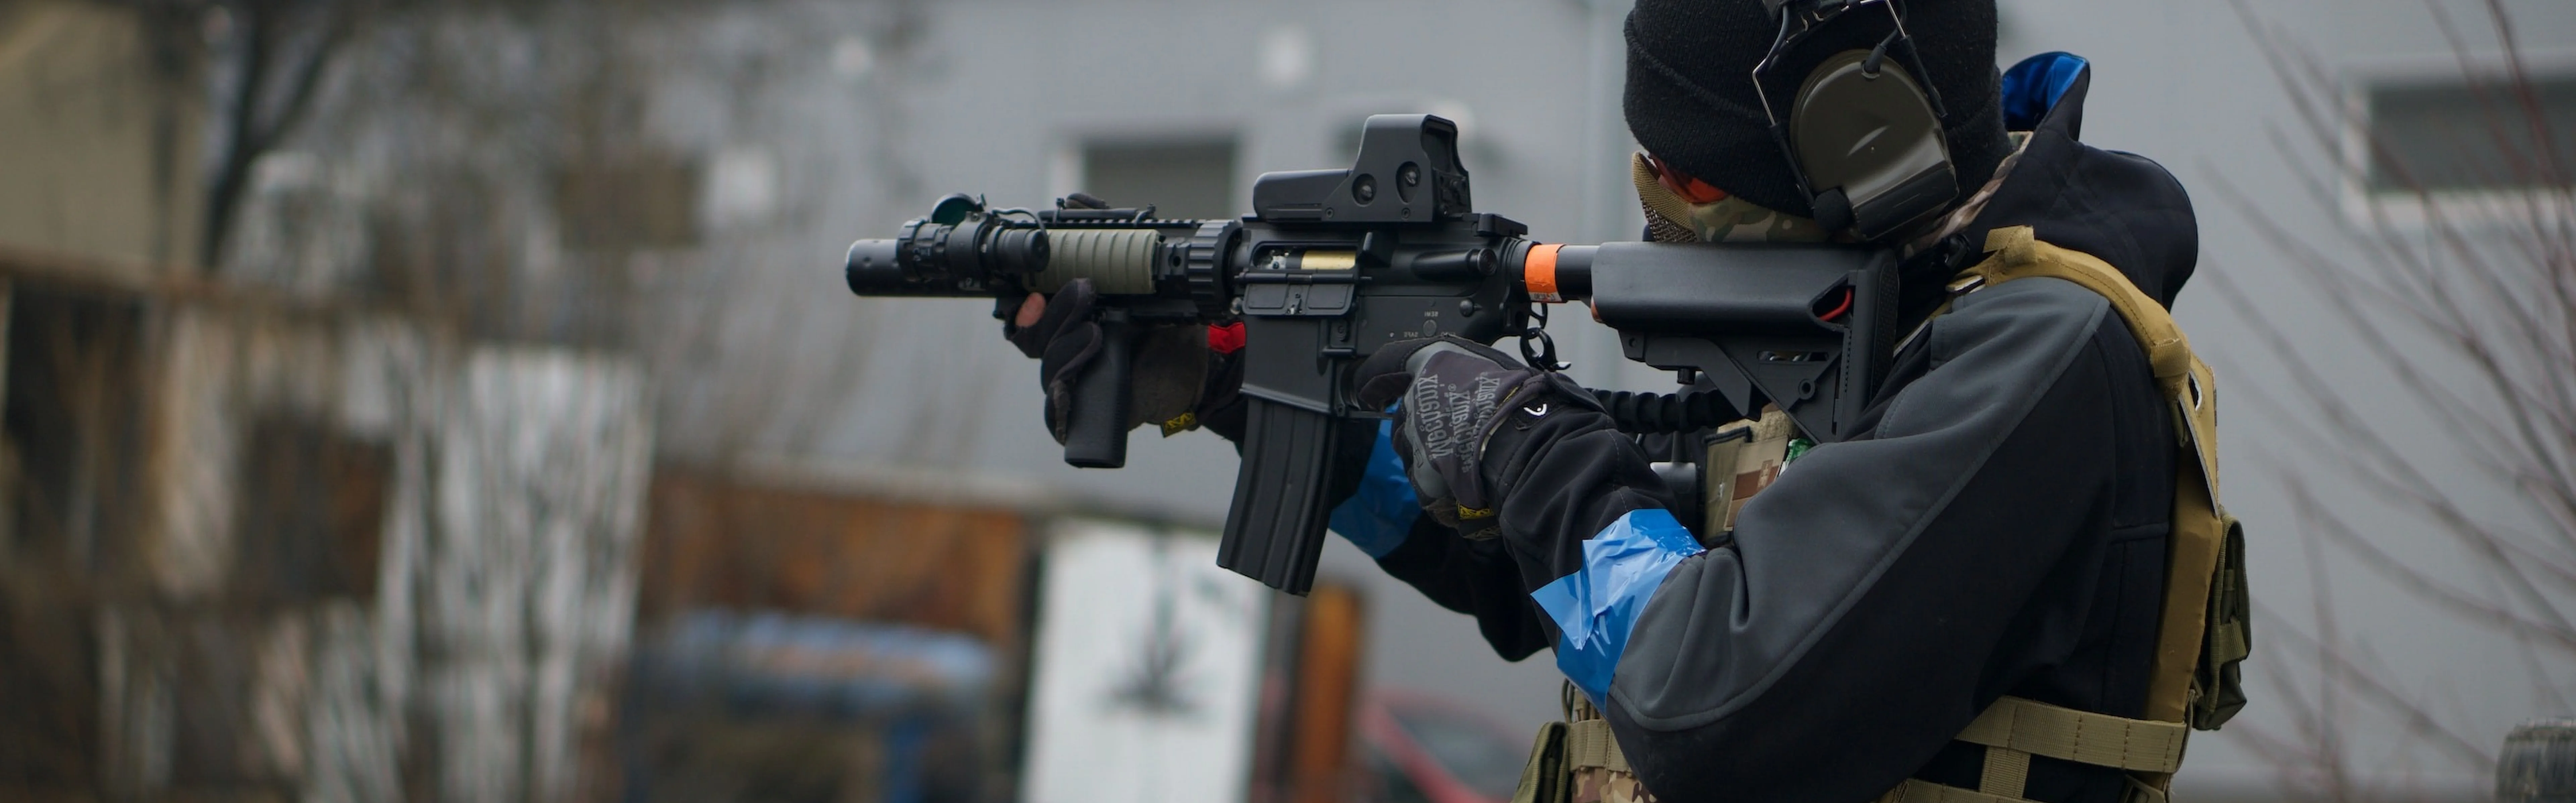
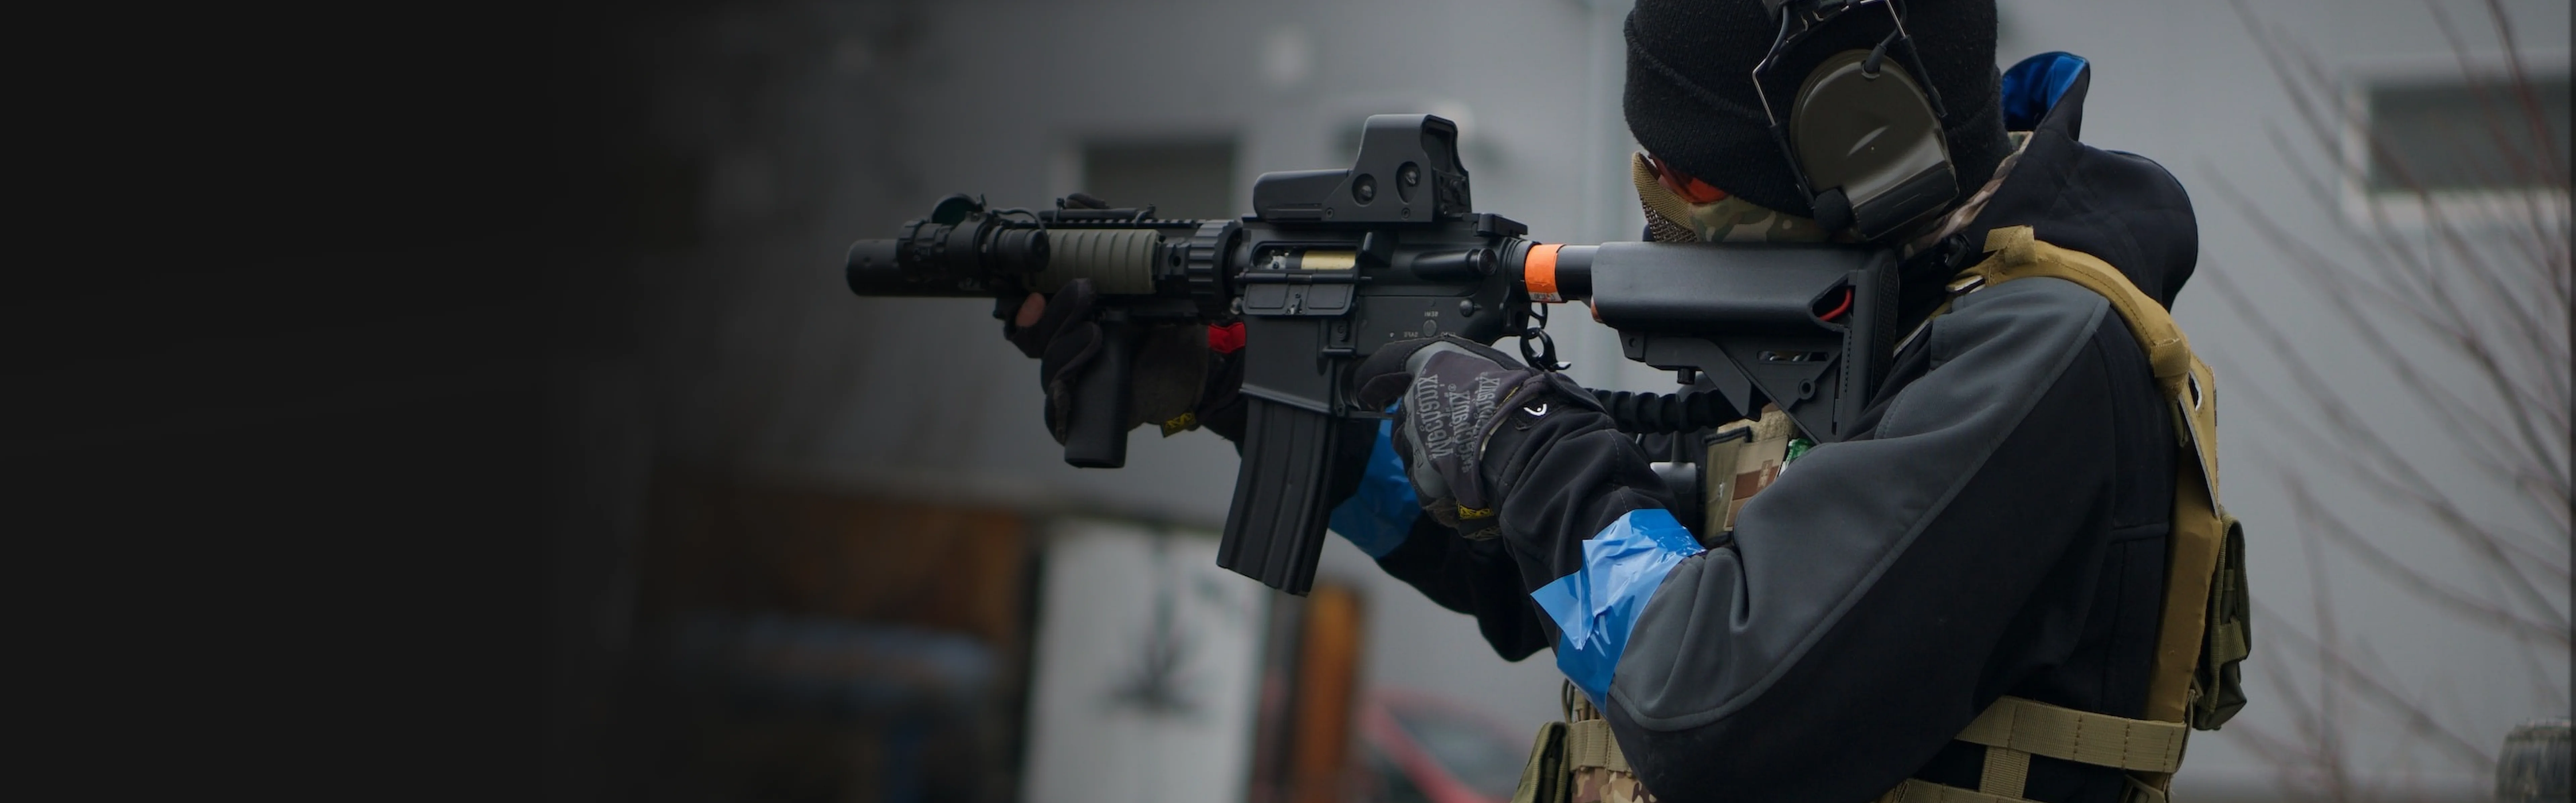
some changes

diff --git a/src/components/Instagram/index.tsx b/src/components/Instagram/index.tsx
@@ -1,5 +1,4 @@
 //libs
-
 import React from "react";
 import Image from "next/image";
 //styles
@@ -12,7 +11,8 @@ import photo4 from '../../../public/images/instagram/instagram-photo4.webp'
 
 const Instagram = () => {
   return <section className={styles.instagram}>
-    <h2 className={styles.instagram_title}>НАШ INSTAGRAM</h2>
+    <div className={styles.instagram_wrapper}>
+      <h2 className={styles.instagram_title}>НАШ INSTAGRAM</h2>
     
     <div className={styles.instagram_photos}>
       <Image
@@ -26,30 +26,31 @@ const Instagram = () => {
       <Image
         className={styles.instagram_photo}
         src={photo2}
-        width={267}
-        height={268}
+        width={279}
+        height={270}
         placeholder={'blur'}
         alt="Muller Arms Instagram Photo"
       />
       <Image
         className={styles.instagram_photo}
         src={photo3}
-        width={267}
-        height={268}
+        width={279}
+        height={270}
         placeholder={'blur'}
         alt="Muller Arms Instagram Photo"
       />
       <Image
         className={styles.instagram_photo}
         src={photo4}
-        width={267}
-        height={268}
+        width={279}
+        height={270}
         placeholder={'blur'}
         alt="Muller Arms Instagram Photo"
       />
     </div>
 
     <a className={styles.instagram_btn} href="https://www.instagram.com/mullerarms/">ПЕРЕЙТИ В INSTAGRAM</a>
+    </div>
   </section>
 }
 

diff --git a/src/components/Instagram/styles.module.scss b/src/components/Instagram/styles.module.scss
@@ -6,10 +6,16 @@
   height: auto;
   margin-top: 0;
   margin-bottom: 0;
-  padding-top: 0;
   padding-bottom: 120px;
   flex-direction: column;
-  gap: 60px;
+
+  &_wrapper {
+    max-width: 1176px;
+    display: flex;
+    flex-direction: column;
+    align-items: center;
+    gap: 60px;
+  }
 
   &_title {
     text-align: center;
@@ -26,11 +32,11 @@
     max-width: 1440px;
     width: 100%;
     display: grid;
-    grid-template-columns: repeat(4,1fr);
+    grid-template-columns: repeat(4, 1fr);
     column-gap: 30px;
 
     @media (max-width: 1024px) {
-      grid-template-columns: repeat(2,1fr);
+      grid-template-columns: repeat(2, 1fr);
       grid-template-rows: 1fr 1fr;
       justify-items: center;
       row-gap: 30px;
@@ -44,7 +50,7 @@
   }
 
   &_photo {
-    border-radius: 15px;
+    border-radius: 5px;
     object-fit: cover;
 
     //max-width: 320px;
@@ -58,7 +64,7 @@
     color: #000;
     text-align: center;
     background-color: #fec401;
-    border-radius: 10px;
+    border-radius: 5px;
     padding-left: 0;
     padding-right: 0;
     font-family: var(--font-Montserrat);

diff --git a/src/components/Instructors/index.tsx b/src/components/Instructors/index.tsx
@@ -6,10 +6,9 @@ import styles from './styles.module.scss'
 
 const Instructors = () => {
   return <section className={styles.instructors} id={"instructors"}>
-    <div>
-      <h2 className={styles.instructors_title}>Наші ТРЕНЕРИ</h2>
-      <p className={styles.instructors_subtitle}>Ведучі вас до майстерності: Досвід, Професіоналізм та Дружня Підтримка в Навчанні зі Стрільб</p>
-    </div>
+    <div className={styles.instructors_wrapper}>
+        <h2 className={styles.instructors_title}>Наші ТРЕНЕРИ</h2>
+        <p className={styles.instructors_subtitle}>Ведучі вас до майстерності: Досвід, Професіоналізм та Дружня Підтримка в Навчанні зі Стрільб</p>
 
     <div className={styles.instructors_cards}>
       <div className={styles.instructors_card}>
@@ -74,6 +73,7 @@ const Instructors = () => {
           </div>
         </div>
       </div>
+    </div>
     </div>
   </section>
 }

diff --git a/src/components/Instructors/styles.module.scss b/src/components/Instructors/styles.module.scss
@@ -28,14 +28,20 @@
     gap: 10vw;
   }
 
+  &_wrapper {
+    max-width: 1176px;
+  }
+
   &_title {
     font-size: 45px;
     font-family: var(--font-DuskDemon);
     line-height: 100%;
-    margin-top: 0;
-    text-align: right;
     color: #333;
+
+    text-align: right;
+    margin-top: 0;
     margin-bottom: 20px;
+    margin-left: auto;
 
     @media (max-width: 479px) {
       font-size: 10vw;
@@ -51,6 +57,7 @@
     line-height: 120%;
     width: 459px;
     padding-bottom: 60px;
+    margin-left: auto;
 
     @media (max-width: 768px) {
       width: 100%;
@@ -63,11 +70,10 @@
   }
 
   &_cards {
-    max-width: 1440px;
-    width: 100%;
+    max-width: 1176px;
     display: flex;
     flex-basis: 0;
-    justify-content: space-around;
+    gap: 30px;
 
     @media (max-width: 1200px) {
       gap: 30px;

diff --git a/src/components/Hero/styles.module.scss b/src/components/Hero/styles.module.scss
@@ -27,11 +27,11 @@
 
   &_title {
     color: $white;
-    // text-align: center;
     font-family: var(--font-DuskDemon);
     font-size: clamp(3.75rem, 3.571rem + 0.89vw, 4.375rem);
     line-height: 110%;
     padding-bottom: 20px;
+
     @media (max-width: 465px) {
       font-size: 50px;
     }
@@ -46,19 +46,6 @@
     top: 0;
     left: 0;
     object-fit: cover;
-    background: linear-gradient(
-        246deg,
-        rgba(0, 0, 0, 0) 60.68%,
-        rgba(0, 0, 0, 0.13) 76.7%
-      ),
-      linear-gradient(
-        180deg,
-        rgba(0, 0, 0, 0.54) 0.12%,
-        rgba(0, 0, 0, 0.1) 0.23%,
-        rgba(0, 0, 0, 0) 43.36%,
-        rgba(0, 0, 0, 0.45) 59.63%,
-        #151515 79.19%
-      );
 
     @media (max-width: 740px) {
       display: none;

diff --git a/src/components/Advantages/index.tsx b/src/components/Advantages/index.tsx
@@ -5,7 +5,8 @@ import styles from './styles.module.scss'
 
 const Advantages = () => {
   return <section className={styles.advantages} id={"advantages"}>
-    <h2 className={styles.advantages_title}>Чому обирають нас?</h2>
+    <div className={styles.advantages_wrapper}>
+          <h2 className={styles.advantages_title}>Чому обирають нас?</h2>
 
     <div className={styles.advantages_texts}>
       <div className={styles.advantages_line}></div>
@@ -34,6 +35,7 @@ const Advantages = () => {
 
       <div className={styles.advantages_line}></div>
 
+    </div>
     </div>
   </section>
 }

diff --git a/src/components/Advantages/styles.module.scss b/src/components/Advantages/styles.module.scss
@@ -15,6 +15,10 @@
   background-size: contain;
   background-position: top;
 
+  &_wrapper {
+    max-width: 1176px;
+  }
+
   &_title {
     font-family: var(--font-DuskDemon);
     color: $white;
@@ -22,12 +26,12 @@
     line-height: 100%;
     text-align: left;
     margin-bottom: clamp(1.875rem, 1.339rem + 2.68vw, 3.75rem);
+    margin-right: auto;
   }
 
   &_texts {
     @include center-flex();
     flex-direction: column;
-    max-width: 1440px;
     width: 100%;
     gap: 30px;
     justify-items: center;

diff --git a/src/app/page.tsx b/src/app/page.tsx
@@ -1,6 +1,6 @@
 import Hero from "@/components/Hero"
 import '@/styles/globals.scss'
-import Services from '@/components/Services'
+// import Services from '@/components/Services'
 import Instructors from '@/components/Instructors'
 import Advantages from '@/components/Advantages'
 import About from '@/components/About'
@@ -16,7 +16,7 @@ export default function Home() {
     <Experience />
     <Instructors />
     <Advantages />
-    <Services />
+    {/* <Services /> */}
     <Instagram />
   </>
 }

diff --git a/src/components/Experience/styles.module.scss b/src/components/Experience/styles.module.scss
@@ -6,11 +6,13 @@
   @include size(100%, auto);
   flex-direction: column;
   position: relative;
+  padding-left: 0;
+  padding-right: 0;
 
   padding-top: 40px;
 
   &_bg {
-    @include size(110%, auto);
+    @include size(100%, auto);
     top: 0;
     left: 0;
     object-fit: cover;
